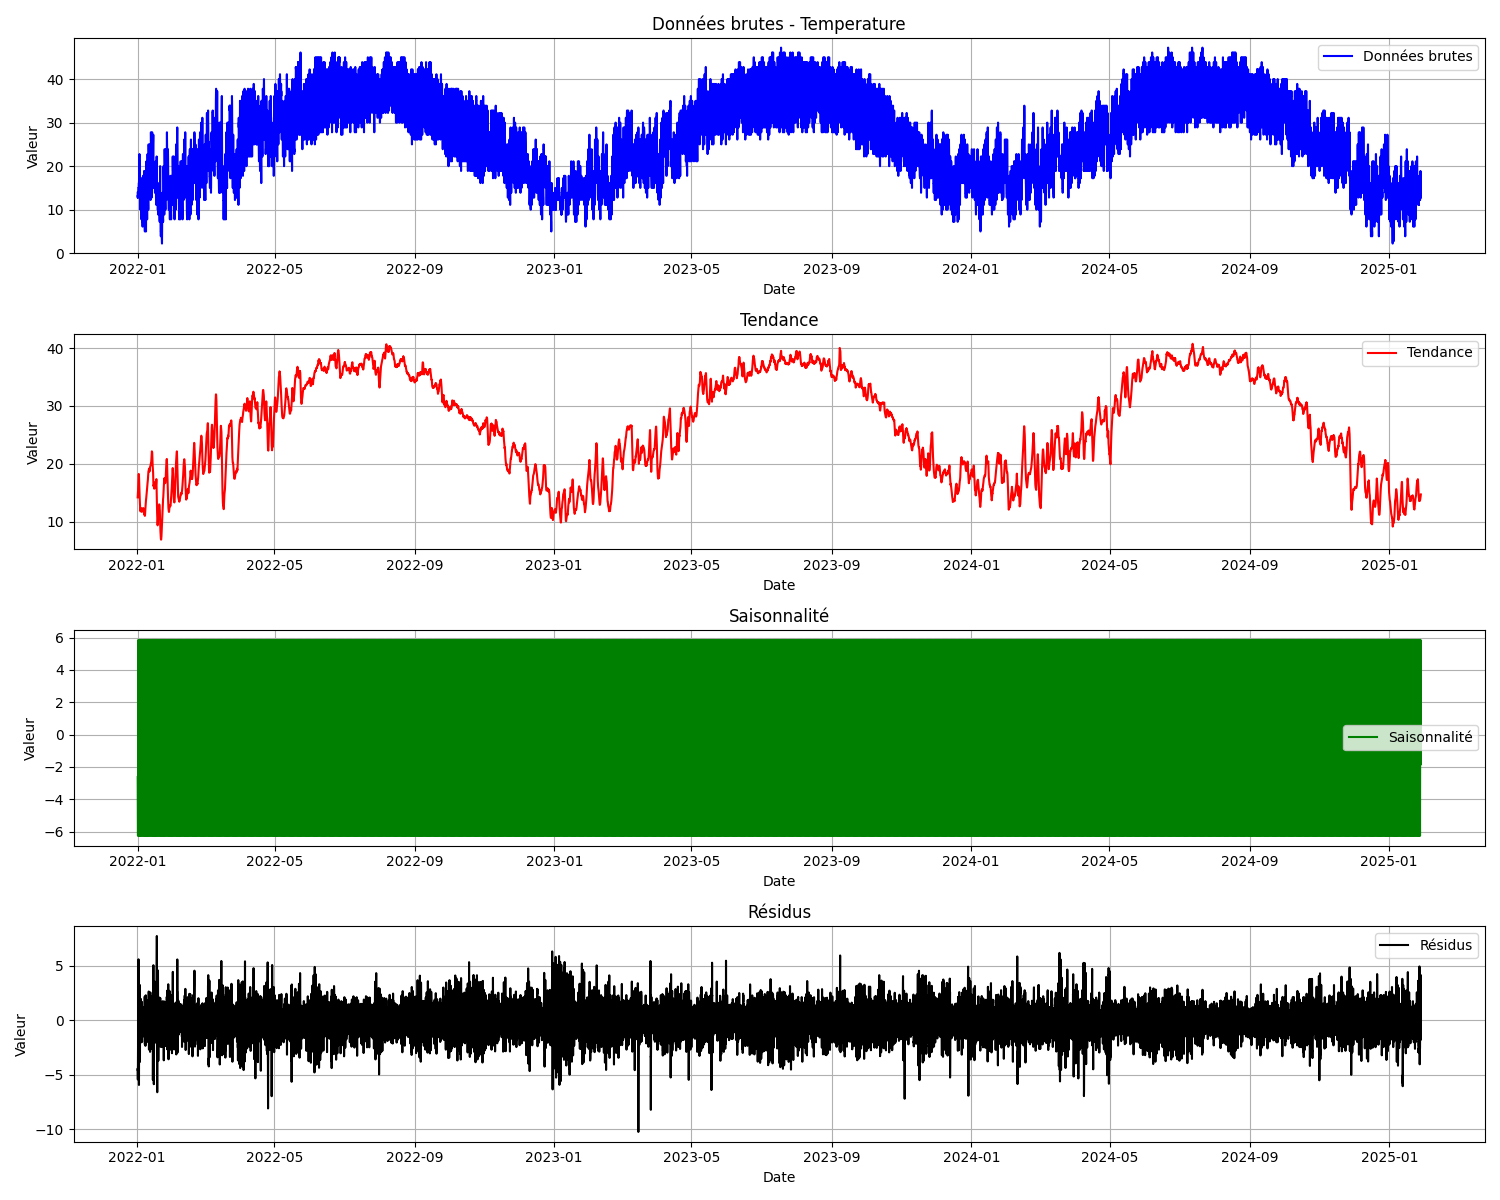
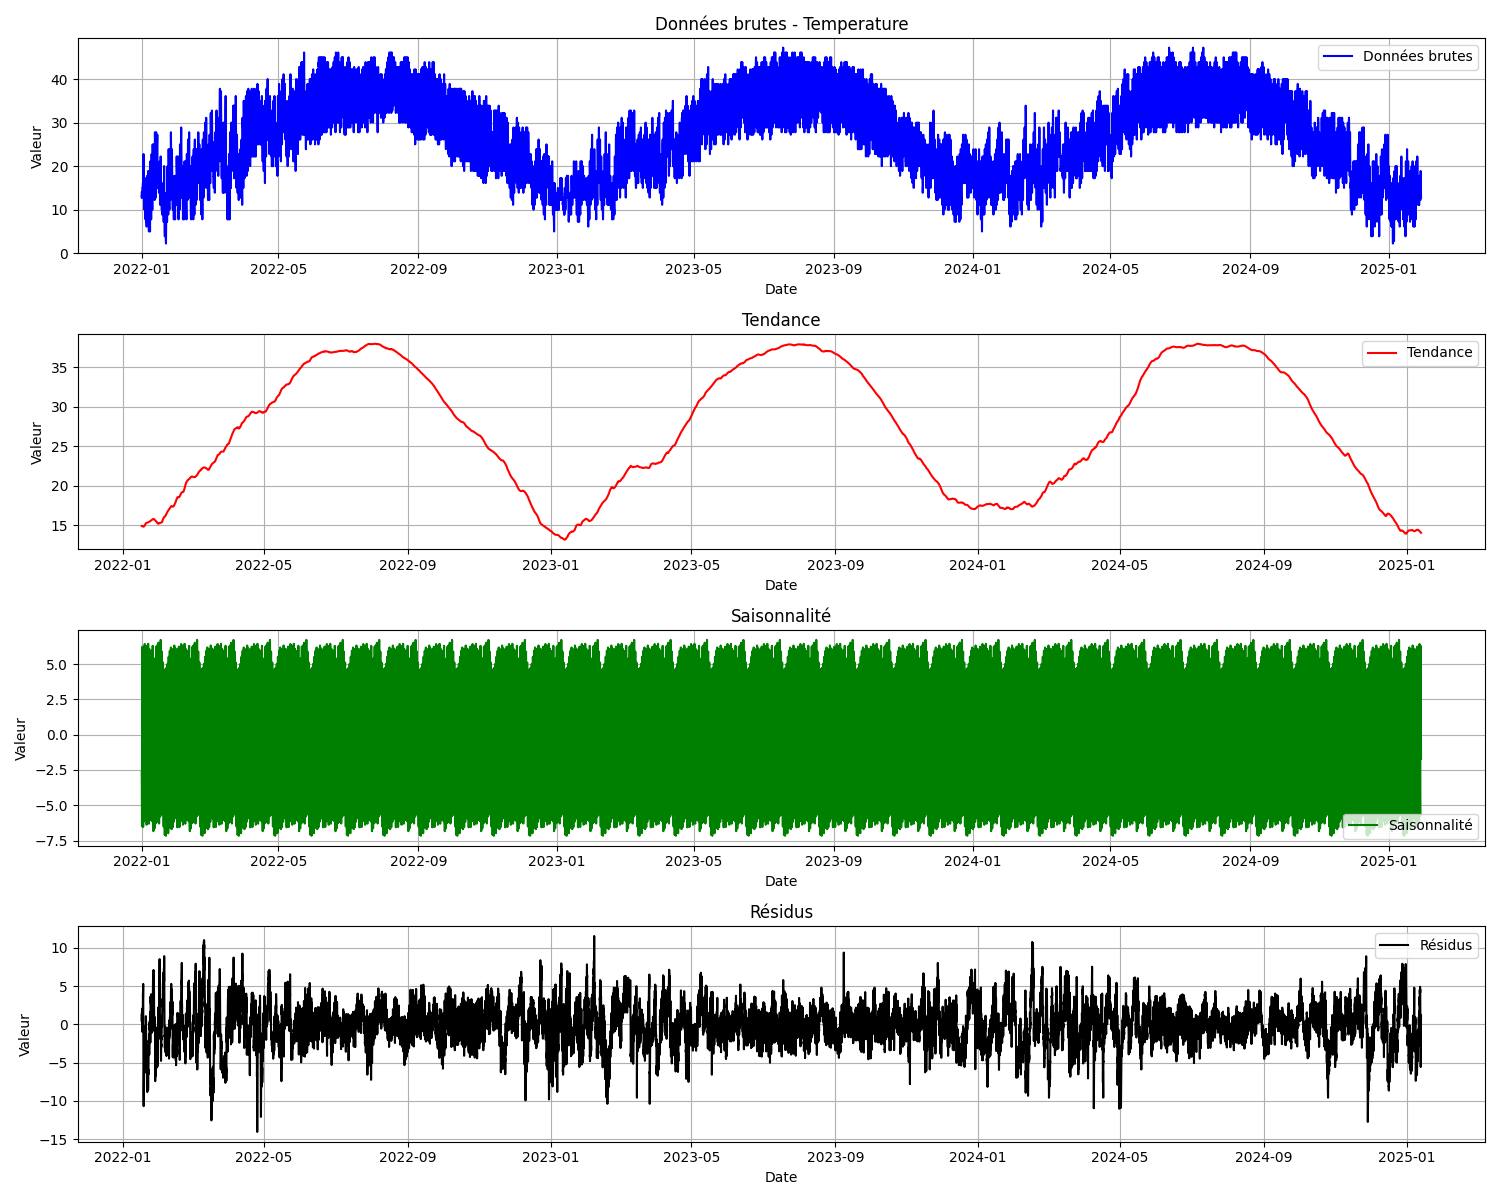
update seasonality

diff --git a/scripts/weather_seasonality.py b/scripts/weather_seasonality.py
@@ -36,7 +36,7 @@ def load_and_prepare_data(file_path):
     
     return df
 
-def plot_decomposition(data, variable, period=24):
+def plot_decomposition(data, variable, period=24*32):
     """Trace la décomposition de la série temporelle."""
     # Décomposition de la série temporelle
     decomposition = seasonal_decompose(data[variable], period=period)
